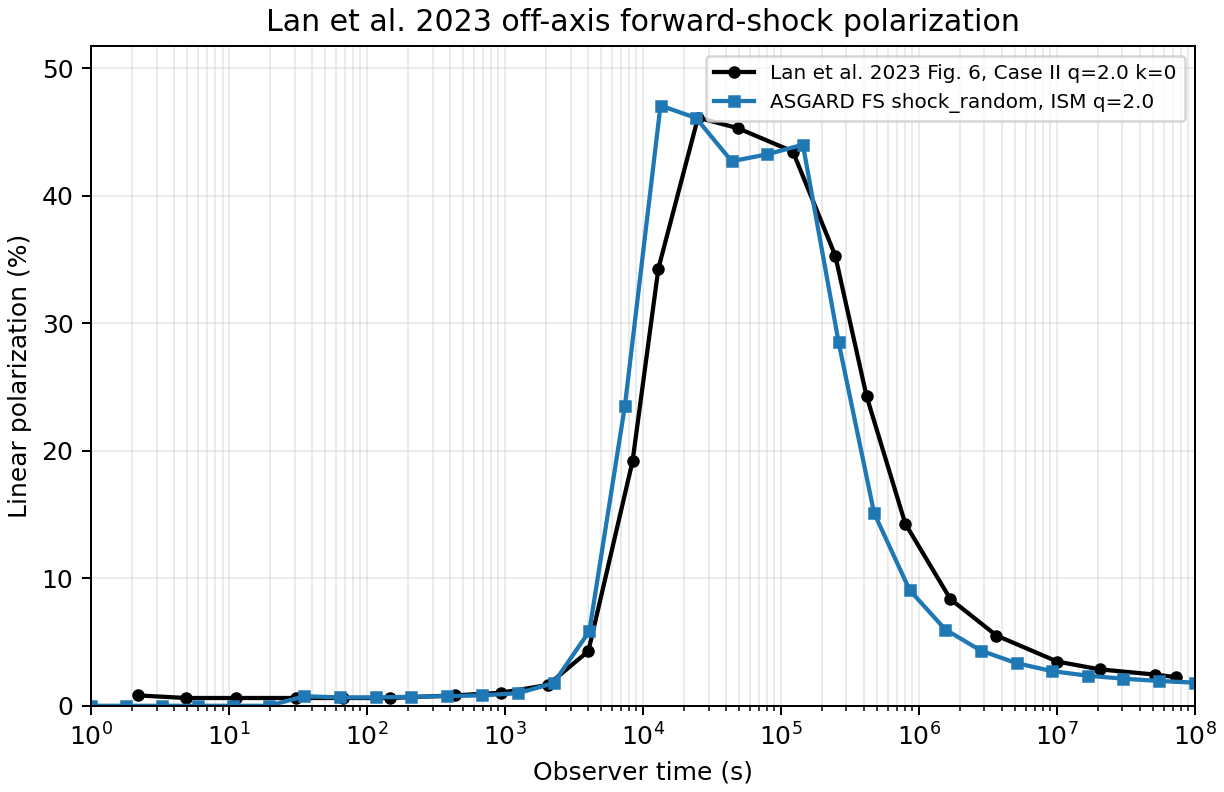
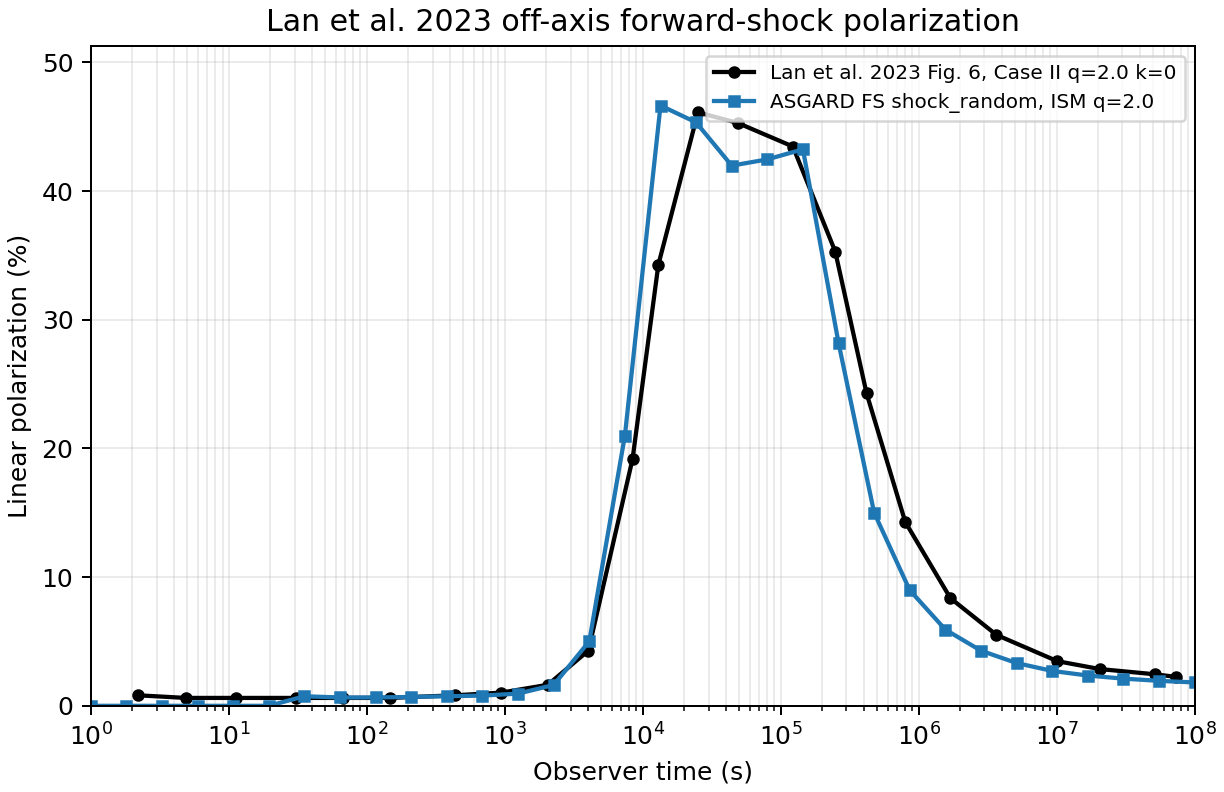
feat: use surface elements for polarization projection

diff --git a/ASGARD/api_observe.py b/ASGARD/api_observe.py
@@ -186,7 +186,7 @@ def _compute_polarization(
     sightline, sky_x_axis, sky_y_axis = _sky_basis(model.observer)
     active_patch_found = False
 
-    for phi_center, theta_center, patch_half_angle in _iter_patches(model):
+    for phi_center, theta_center, patch_half_angle, patch_solid_angle in _iter_patch_elements(model):
         e_iso = model.jet.energy_iso(phi_center, theta_center)
         gamma0 = model.jet.gamma0(phi_center, theta_center)
         if e_iso <= 0.0 or gamma0 <= 1.0:
@@ -226,7 +226,7 @@ def _compute_polarization(
             cos2pa,
             sin2pa,
             _shock_random_anisotropy(magnetic_geometry, theta_v, state.components.fwd.gamma),
-            magnetic_geometry,
+            patch_solid_angle,
         )
         if state.reverse_emission is not None and model.rvs_rad is not None:
             rev_sync = np.asarray(state.reverse_emission.l_syn_spec, dtype=float) * np.asarray(state.observer.prefactor, dtype=float)
@@ -245,7 +245,7 @@ def _compute_polarization(
                 cos2pa,
                 sin2pa,
                 _shock_random_anisotropy(magnetic_geometry, theta_v, _reverse_shock_gamma_array(state)),
-                magnetic_geometry,
+                patch_solid_angle,
             )
             rev_hadronic_sync = _patch_reverse_hadronic_synchrotron_component(state)
             if rev_hadronic_sync is not None:
@@ -260,7 +260,7 @@ def _compute_polarization(
                     cos2pa,
                     sin2pa,
                     _shock_random_anisotropy(magnetic_geometry, theta_v, _reverse_shock_gamma_array(state)),
-                    magnetic_geometry,
+                    patch_solid_angle,
                 )
         hadronic_sync = _patch_hadronic_synchrotron_component(state)
         if hadronic_sync is not None:
@@ -275,7 +275,7 @@ def _compute_polarization(
                 cos2pa,
                 sin2pa,
                 _shock_random_anisotropy(magnetic_geometry, theta_v, state.components.fwd.gamma),
-                magnetic_geometry,
+                patch_solid_angle,
             )
 
     if not active_patch_found:
@@ -400,7 +400,7 @@ def _accumulate_patch_polarization(
     cos2pa: float,
     sin2pa: float,
     shell_anisotropy: np.ndarray,
-    magnetic_geometry: str,
+    patch_solid_angle: float,
 ) -> None:
     source = np.asarray(source_component, dtype=float)
     if not np.any(source):
@@ -410,25 +410,9 @@ def _accumulate_patch_polarization(
         polarized_source = source * float(pi_local)
     else:
         polarized_source = source * pi_local
-    observer_setup = _build_observer_setup_from_state(state, times_s)
-    if magnetic_geometry == "shock_random":
-        i_obs, q_local, u_local = _project_shock_random_stokes(
-            observer_setup,
-            state.components.fwd.characteristic_time_s,
-            state.components.fwd.gamma,
-            state.components.fwd.radius_cm,
-            state.setup.seed_frequency_hz,
-            source,
-            polarized_source,
-            nu_hz,
-            state.config,
-        )
-        accumulator["I"] += i_obs
-        accumulator["Q"] += q_local * cos2pa - u_local * sin2pa
-        accumulator["U"] += q_local * sin2pa + u_local * cos2pa
-        return
     polarized_source = polarized_source * np.asarray(shell_anisotropy, dtype=float)[None, :]
-    i_obs = _project_component(
+    observer_setup = _build_observer_setup_from_state(state, times_s)
+    i_obs = _project_surface_element(
         observer_setup,
         state.components.fwd.characteristic_time_s,
         state.components.fwd.gamma,
@@ -436,9 +420,9 @@ def _accumulate_patch_polarization(
         state.setup.seed_frequency_hz,
         source,
         nu_hz,
-        state.config,
+        patch_solid_angle,
     )
-    p_obs = _project_component(
+    p_obs = _project_surface_element(
         observer_setup,
         state.components.fwd.characteristic_time_s,
         state.components.fwd.gamma,
@@ -446,51 +430,45 @@ def _accumulate_patch_polarization(
         state.setup.seed_frequency_hz,
         polarized_source,
         nu_hz,
-        state.config,
+        patch_solid_angle,
     )
     accumulator["I"] += i_obs
     accumulator["Q"] += p_obs * cos2pa
     accumulator["U"] += p_obs * sin2pa
 
 
-def _project_shock_random_stokes(
+def _project_surface_element(
     setup,
     characteristic_time_s: np.ndarray,
     gamma: np.ndarray,
     radius_cm: np.ndarray,
     seed_frequency_hz: np.ndarray,
     absorbed_spectral_flux: np.ndarray,
-    polarized_spectral_flux: np.ndarray,
     frequencies_hz: np.ndarray,
-    config: FitConfig,
-) -> tuple[np.ndarray, np.ndarray, np.ndarray]:
-    """调用角元级随机场Stokes投影核，返回局域patch基底下的I/Q/U。"""
+    patch_solid_angle: float,
+) -> np.ndarray:
+    """按真实球面面元dOmega投影一个patch中心代表的同步辐射。"""
+    if not np.any(absorbed_spectral_flux):
+        return np.zeros((frequencies_hz.shape[0], setup.observer_time_s.shape[0]), dtype=float)
     frequencies_hz = np.asarray(frequencies_hz, dtype=float)
     order = np.argsort(frequencies_hz)
     sorted_frequencies = frequencies_hz[order]
-    i_sorted, q_sorted, u_sorted = Interpolation.sed_interpolation_shock_random_stokes(
+    flux_sorted = Interpolation.sed_interpolation_surface_element(
         setup.boundary,
         characteristic_time_s,
         gamma,
         radius_cm,
         absorbed_spectral_flux,
-        polarized_spectral_flux,
         seed_frequency_hz,
         sorted_frequencies,
         setup.observer_time_s,
-        config.num_theta,
-        config.num_phi,
-        config.num_threads,
+        float(patch_solid_angle),
     )
     if np.array_equal(order, np.arange(order.shape[0])):
-        return i_sorted, q_sorted, u_sorted
-    i_obs = np.empty_like(i_sorted)
-    q_obs = np.empty_like(q_sorted)
-    u_obs = np.empty_like(u_sorted)
-    i_obs[order] = i_sorted
-    q_obs[order] = q_sorted
-    u_obs[order] = u_sorted
-    return i_obs, q_obs, u_obs
+        return flux_sorted
+    flux_matrix = np.empty_like(flux_sorted)
+    flux_matrix[order] = flux_sorted
+    return flux_matrix
 
 
 def _patch_hadronic_synchrotron_component(state: SolveState) -> tuple[np.ndarray, np.ndarray] | None:
@@ -1138,6 +1116,12 @@ def _make_details(
 
 
 def _iter_patches(model: Model):
+    for phi_center, theta_center, patch_half_angle, _domega in _iter_patch_elements(model):
+        yield phi_center, theta_center, patch_half_angle
+
+
+def _iter_patch_elements(model: Model):
+    """生成真实球面经纬面元：中心方向、等面积圆半角和dOmega。"""
     theta_edges = np.linspace(0.0, model.jet.theta_max, model.setups.patch_theta + 1)
     phi_edges = np.linspace(0.0, 2.0 * np.pi, model.setups.patch_phi + 1)
     for i_theta in range(model.setups.patch_theta):
@@ -1150,7 +1134,7 @@ def _iter_patches(model: Model):
             phi_center = 0.5 * (phi1 + phi2)
             domega = (np.cos(theta1) - np.cos(theta2)) * (phi2 - phi1)
             patch_half_angle = np.sqrt(max(domega, 1.0e-12) / np.pi)
-            yield phi_center, theta_center, patch_half_angle
+            yield phi_center, theta_center, patch_half_angle, domega
 
 
 def _can_collapse_sky_image_phi(model: Model) -> bool:

diff --git a/tests/polarization_smoke.py b/tests/polarization_smoke.py
@@ -121,37 +121,32 @@ def test_fortran_polarization_kernel_conserves_intensity() -> None:
     assert np.allclose(pi_nu, expected, rtol=1.0e-5, atol=0.0)
 
 
-def test_shock_random_stokes_projection_matches_unpolarized_intensity() -> None:
+def test_surface_element_projection_scales_with_solid_angle() -> None:
     boundary = np.ones(24, dtype=float)
-    boundary[7] = 0.0
-    boundary[8] = 0.08
-    boundary[9] = 0.0
-    radius = np.logspace(15.0, 17.0, 20)
-    gamma = np.linspace(80.0, 8.0, radius.size)
+    boundary[7] = 0.1
+    boundary[9] = 0.2
+    radius = np.logspace(15.0, 17.0, 18)
+    gamma = np.linspace(60.0, 6.0, radius.size)
     t0 = radius / constants.para_c
-    seed = np.logspace(9.0, 15.0, 32)
-    observed = np.array([1.0e10, 1.0e12, 1.0e14], dtype=float)
-    times = np.logspace(4.5, 6.5, 5)
-    source = np.outer(seed ** 0.1, radius ** -0.2)
-    polarized_source = 0.7 * source
-    old_i = Interpolation.sed_interpolation(boundary, t0, gamma, radius, source, seed, observed, times, 12, 24, 1)
-    new_i, new_q, new_u = Interpolation.sed_interpolation_shock_random_stokes(
+    seed = np.logspace(9.0, 15.0, 24)
+    observed = np.array([1.0e11, 1.0e13], dtype=float)
+    times = np.logspace(4.0, 6.0, 4)
+    source = np.outer(seed ** 0.2, radius ** -0.3)
+    domega = 2.0e-4
+    flux = Interpolation.sed_interpolation_surface_element(boundary, t0, gamma, radius, source, seed, observed, times, domega)
+    flux_double = Interpolation.sed_interpolation_surface_element(
         boundary,
         t0,
         gamma,
         radius,
         source,
-        polarized_source,
         seed,
         observed,
         times,
-        12,
-        24,
-        1,
+        2.0 * domega,
     )
-    assert np.allclose(new_i, old_i, rtol=1.0e-13, atol=0.0)
-    assert np.max(np.abs(new_q)) < 1.0e-12 * np.max(new_i)
-    assert np.max(np.abs(new_u)) == 0.0
+    assert np.any(flux > 0.0)
+    assert np.allclose(flux_double, 2.0 * flux, rtol=1.0e-13, atol=0.0)
 
 
 def test_hadronic_polarization_kernel_powerlaw_limit() -> None:
@@ -210,7 +205,7 @@ def main() -> None:
     test_toroidal_differs_from_shock_random()
     test_reverse_and_hadronic_synchrotron_components()
     test_fortran_polarization_kernel_conserves_intensity()
-    test_shock_random_stokes_projection_matches_unpolarized_intensity()
+    test_surface_element_projection_scales_with_solid_angle()
     test_hadronic_polarization_kernel_powerlaw_limit()
     test_fortran_polarization_kernel_tracks_curved_spectrum()
     test_hadronic_polarization_kernel_tracks_curved_spectrum()

diff --git a/src/Interpolation/__init__.py b/src/Interpolation/__init__.py
@@ -6,7 +6,7 @@ from typing import Any
 
 _BINDINGS = {
     "sed_interpolation": "SED_interpolation",
-    "sed_interpolation_shock_random_stokes": "SED_interpolation",
+    "sed_interpolation_surface_element": "SED_interpolation",
     "sed_interpolation_structured": "SED_interpolation_structured",
 }
 

diff --git a/添加偏振模块.md b/添加偏振模块.md
@@ -19,7 +19,7 @@
 - [x] Lan 2023 对照显示 ASGARD 当前 `q=2.0, k=0` forward-shock 偏振峰值幅度基本一致，峰时仍略早，后续优先检查真实 jet 面元权重与 EATS 时间映射。
 - [x] 后续性能优化已评估：当前耗时主要来自每个 patch 的状态求解和 hadronic/RS 组件计算，单独下沉 Stokes 累加不能解决主要瓶颈，暂不实施。
 - [x] 已将 `shock_random` 的 `cos(2PA)`、`sin(2PA)` 与局域偏振率下沉到和 `DMu`、Doppler、EATS 相同的角元积分中，消除 patch 内中心 PA 近似。
-- [ ] 将偏振积分从圆形 mini-jet patch 近似升级为真实全局 jet 面元权重，优先修正 GL99 对照中第二峰偏晚偏高的问题。
+- [x] 已将偏振积分从圆形 mini-jet patch 近似升级为真实全局 jet 面元权重；Lan 2023 对照峰值幅度保持一致，峰时偏早转入动力学/EATS 时间映射后续诊断。
 
 ## Key Changes
 - API 层新增 `PolarizationResult` dataclass，字段固定为：
